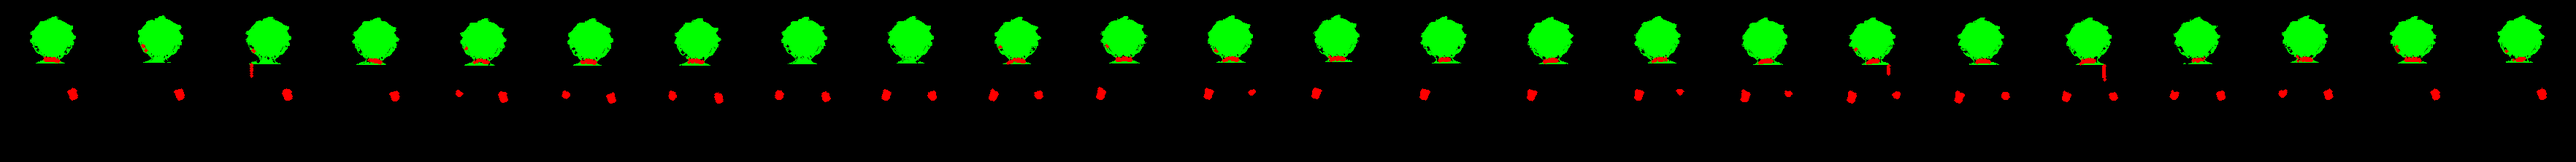
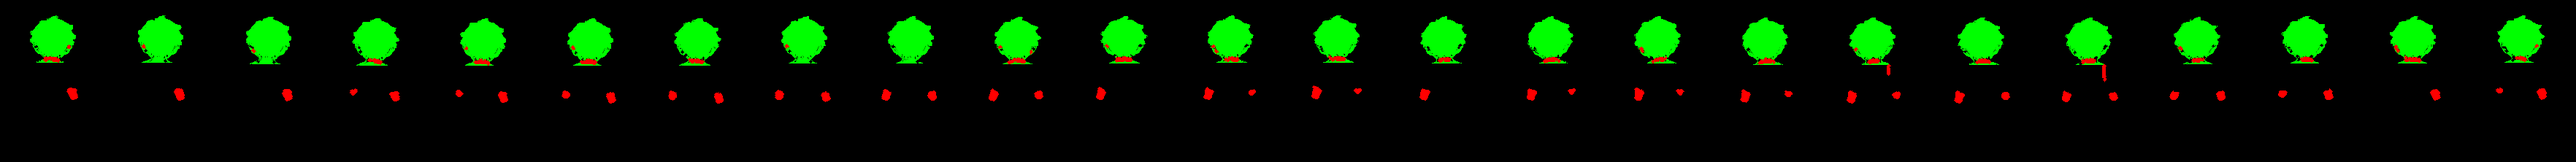
Arthur 2D walks: eye whites kept, no white between arm and body; new checks for both
- ink_outline: very light face pixels (eye whites) are never inked; the build fails if the ink
  darkens any light face pixel (it had darkened the far eye on the face's edge)
- clean_sheet: hair-tip pocket fix limited to the outline below the eyes (it had recoloured eye
  whites); colourless light pixels below the belt (backdrop between arm, hip and legs) cleared
- qa_shape: white patches below the belt fail (flags 4/19/3 frames of the previous side/down/up)

Claude-Session: https://claude.ai/code/session_01BTTj8XQEKKbtmbxwbKeDto

Changed region(s): [[0.9666, 0.3514, 0.9977, 0.3784], [0.5924, 0.3784, 0.6236, 0.4054], [0.1247, 0.3784, 0.1559, 0.4054]]

diff --git a/tools/sprixen/clean_sheet.py b/tools/sprixen/clean_sheet.py
@@ -200,6 +200,24 @@ def clean_gentle(f):
                 continue                                              # eyes etc.
             if (comp & near_out).any() or (comp & gaps).sum() >= 0.6 * comp.sum():
                 a[comp] = 0
+    # below the belt nothing in the outfit is white (gloves, trousers, boots; the buckle is gold):
+    # light, colourless pixels there are the old backdrop between arm, hip and legs -> cleared
+    navy = (a >= 200) & (rgb[:, :, 2] > rgb[:, :, 0] + 8) & (rgb[:, :, 0] < 110)
+    ysb = np.where((a >= 200).any(1))[0]
+    rows = np.where(navy.sum(1) > 20)[0]                     # trousers (wide), not the neckerchief
+    if len(ysb):
+        rows = rows[rows > ysb.min() + 0.42 * (ysb.max() - ysb.min())]
+    if len(rows):
+        belt = rows.min()
+        sat = rgb.max(2) - rgb.min(2)
+        pale = (a > 0) & (rgb.min(2) > 150) & (sat < 40)
+        pale[:belt] = False
+        lab, nl = ndimage.label(pale)
+        near_out = ndimage.binary_dilation(a == 0, iterations=3)
+        for k in range(1, nl + 1):
+            comp = lab == k
+            if (comp & near_out).any() or comp.sum() <= 30:
+                a[comp] = 0
     # thin wisps on the outline (1-2 px strands of half see-through hair or collar behind the neck):
     # they come and go between frames and turn into dark hooks once the outline is inked. Anything
     # an opening with a 3x3 square removes, in pieces under 30 px, is dropped.
@@ -221,8 +239,14 @@ def clean_gentle(f):
         sizes = ndimage.sum(lightp, lab, range(1, nl + 1))
         _, (hy, hx) = ndimage.distance_transform_edt(~hair, return_indices=True)
         rgb = rgb.copy()
+        ysb = np.where((a >= 200).any(1))[0]
+        eye_end = ysb.min() + int(0.21 * (ysb.max() - ysb.min())) if len(ysb) else 0
         for k in np.where(sizes <= 40)[0] + 1:
             comp = lab == k
+            if np.where(comp)[0].mean() < eye_end:
+                continue          # eye whites sit between dark lines too: never recoloured
+            if not (ndimage.binary_dilation(comp, iterations=3) & ~body).any():
+                continue          # only pockets on the outline (hair tips); inside the body it's the shirt
             ring = ndimage.binary_dilation(comp, iterations=2) & ~comp
             hair_or_out = (ring & (hair | ~body)).sum()
             if ring.sum() and (ring & hair).sum() >= 0.25 * ring.sum() and hair_or_out >= 0.7 * ring.sum():
@@ -240,7 +264,7 @@ def clean_gentle(f):
         collar_band = np.zeros_like(semi)
         if len(ysb):
             hh = ysb.max() - ysb.min()
-            collar_band[ysb.min() + int(.15 * hh):ysb.min() + int(.40 * hh)] = True
+            collar_band[ysb.min() + int(.22 * hh):ysb.min() + int(.40 * hh)] = True
         fix = semi & (sat < 45) & (dl <= 12) & collar_band
         rgb = rgb.copy()
         rgb[fix] = rgb[ly[fix], lx[fix]]

diff --git a/tools/sprixen/qa_shape.py b/tools/sprixen/qa_shape.py
@@ -59,7 +59,7 @@ def slivers(f):
     s = f[..., 3] > 128
     up, top, bot = upper(f)
     neck = np.zeros_like(s)
-    neck[top + int(.15 * (bot - top)):top + int(.36 * (bot - top))] = True
+    neck[top + int(.21 * (bot - top)):top + int(.36 * (bot - top))] = True   # below the eyes
     light = s & (f[..., :3].min(2) > 150)
     thin = light & ~ndimage.binary_opening(light, structure=np.ones((3, 3)))
     outer = ndimage.binary_dilation(~s, iterations=2)
@@ -115,11 +115,29 @@ def main():
             if comp.sum() >= 10:
                 yy, xx = np.where(comp)
                 fails.append(f"frame {i}: pale backdrop-coloured patch, {int(comp.sum())}px at ({int(xx.mean())},{int(yy.mean())})")
+    # 6. WHITE BELOW THE BELT: nothing in the outfit below the belt is white, so light colourless
+    #    patches there are backdrop between arm, hip and legs
+    for i, f in enumerate(walk):
+        s_ = f[..., 3] > 128
+        navy = s_ & (f[..., 2] > f[..., 0] + 8) & (f[..., 0] < 110)
+        ys_ = np.where(s_.any(1))[0]
+        rows = np.where(navy.sum(1) > 14)[0]
+        rows = rows[rows > ys_.min() + 0.42 * (ys_.max() - ys_.min())]   # trousers, not the neckerchief
+        if not len(rows):
+            continue
+        pale = (f[..., 3] > 60) & (f[..., :3].min(2) > 160) & (f[..., :3].max(2) - f[..., :3].min(2) < 40)
+        pale[:rows.min() + 2] = False
+        lab, k = ndimage.label(pale)
+        for j in range(1, k + 1):
+            comp = lab == j
+            if comp.sum() >= 4:
+                yy, xx = np.where(comp)
+                fails.append(f"frame {i}: white patch below the belt (between arm and body), {int(comp.sum())}px at ({int(xx.mean())},{int(yy.mean())})")
     from collar_median import collar_consistency
     # the collar behind the neck is only seen in the side view
     cc = collar_consistency(walk) if "side" in name else [0] * n
     for i, v in enumerate(cc):
-        if v > 18:
+        if v > 24:
             fails.append(f"frame {i}: collar behind the neck differs from the rest of the loop ({v}px: background or a dark patch)")
     print(f"== shape {name}: {n} frames; collar odd px {min(cc)}-{max(cc)}; outline notch px {min(rough)}-{max(rough)} (standing {ref_notch}); "
           f"edge slivers {min(sl)}-{max(sl)} (standing {ref_sl})")

diff --git a/tools/sprixen/ink_outline.py b/tools/sprixen/ink_outline.py
@@ -45,6 +45,13 @@ def ink(f, col, col_l):
     rgb = f[:, :, :3]
     lum = rgb.mean(2)
     need = np.clip((lum - col_l) / 60.0, 0, 1)          # already as dark as a line -> unchanged
+    # eyes: in the 3/4 view the far eye sits on the face's outline; its white must stay white.
+    # Very light pixels in the head (the top 21% of the figure, above the chin) are never inked.
+    ys = np.where(solid.any(1))[0]
+    if len(ys):
+        head = np.zeros_like(solid)
+        head[:ys.min() + int(0.21 * (ys.max() - ys.min()))] = True
+        need[head & (rgb.min(2) > 175)] = 0
     k = (w * need)[:, :, None]
     out = f.copy()
     out[:, :, :3] = rgb * (1 - k) + col[None, None, :] * k
@@ -56,10 +63,23 @@ def main():
     base = np.array(Image.open(sys.argv[2]).convert("RGBA")).astype(np.float32)
     col, col_l = line_colour(base)
     out = sheet.copy()
-    inked = []
+    inked, face_hits = [], []
     for i in range(sheet.shape[1] // SRC):
-        out[:, i * SRC:(i + 1) * SRC], n = ink(sheet[:, i * SRC:(i + 1) * SRC], col, col_l)
+        before = sheet[:, i * SRC:(i + 1) * SRC]
+        out[:, i * SRC:(i + 1) * SRC], n = ink(before, col, col_l)
         inked.append(int(n))
+        # check: the ink must never turn light details of the face (eye whites, highlights) dark
+        after = out[:, i * SRC:(i + 1) * SRC]
+        s = before[..., 3] > 128
+        ys = np.where(s.any(1))[0]
+        band = np.zeros_like(s)
+        band[ys.min():ys.min() + int(0.21 * (ys.max() - ys.min()))] = True
+        hit = band & s & (before[..., :3].min(2) > 175) & (after[..., :3].mean(2) < before[..., :3].mean(2) - 40)
+        face_hits.append(int(hit.sum()))
+    if max(face_hits) > 0:
+        print(f"FAIL: outline ink darkened light face pixels (eye whites) in frames: "
+              f"{[i for i, v in enumerate(face_hits) if v]}")
+        sys.exit(1)
     Image.fromarray(np.clip(out, 0, 255).astype(np.uint8)).save(sys.argv[3])
     print(f"{sys.argv[1]}: outline inked with {tuple(int(c) for c in col)}; px per frame {min(inked)}-{max(inked)}")
 
